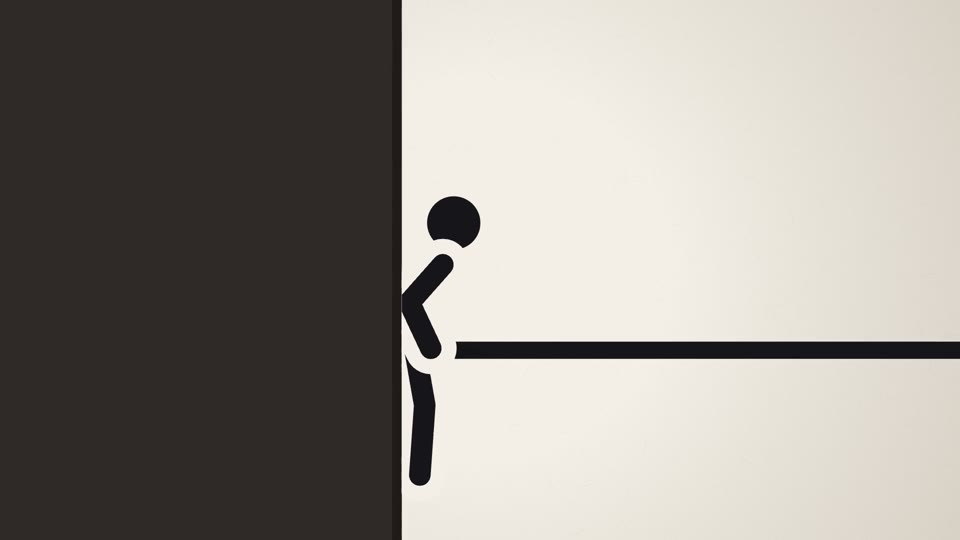
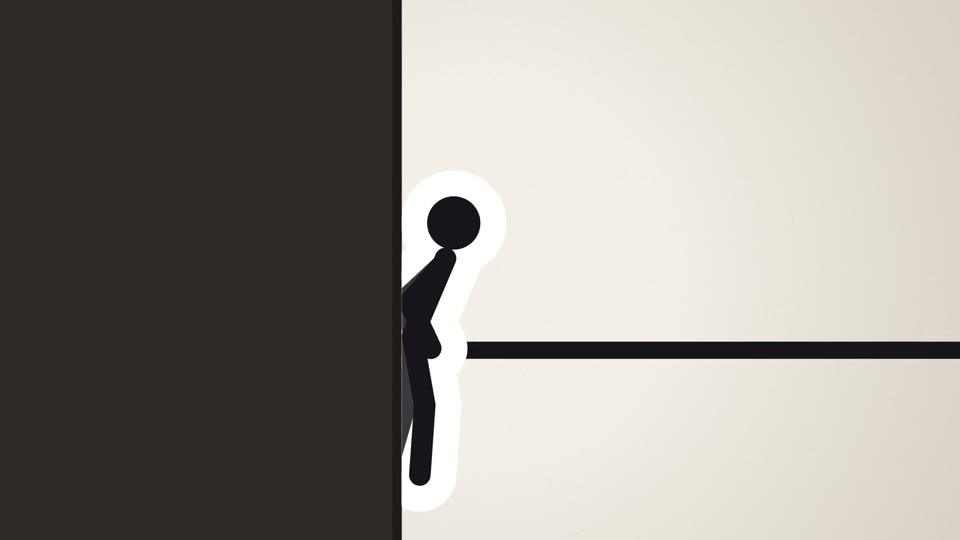
Stickman Action: a wider white outline around the figures
The outline is now pure white at 3.4x the stroke (was paper-coloured at 2.4x) and
goes under the whole figure before any ink, so it reads as a clean cut-out and never
bites into the figure's own strokes. Film, poster, stills and frames re-rendered.

Changed region(s): [[0.4062, 0.3259, 0.5312, 0.9481]]

diff --git a/styles/stick-action/demo/stick.js b/styles/stick-action/demo/stick.js
@@ -65,17 +65,23 @@ export function mixCol(a, b, t) {
   return '#' + [16, 8, 0].map(s => c(s).toString(16).padStart(2, '0')).join('');
 }
 
-// draw: paper halo pass, then ink; far limbs lightened. o: { ink, paper, farMix, halo (width multiplier), alpha, only: ['aN', ...] }
+// draw: a white outline pass under the whole figure, then ink; far limbs lightened.
+// o: { ink, outline (colour), farMix, halo (width multiplier), alpha, only: ['aN', ...] }
+export const OUTLINE = '#ffffff';
 export function drawFigure(g, J, o = {}) {
-  const ink = o.ink || INK, paper = o.paper || PAPER, w = J.P.w * (o.wk || 1);
-  const far = mixCol(ink, paper, o.farMix ?? .16);
+  const ink = o.ink || INK, out = o.outline || o.paper || OUTLINE, w = J.P.w * (o.wk || 1);
+  const far = mixCol(ink, PAPER, o.farMix ?? .16);
   const pl = (pts) => { g.beginPath(); g.moveTo(pts[0][0], pts[0][1]); for (let i = 1; i < pts.length; i++) g.lineTo(pts[i][0], pts[i][1]); g.stroke(); };
   g.save(); g.lineCap = 'round'; g.lineJoin = 'round'; if (o.alpha != null) g.globalAlpha = o.alpha;
   const parts = [['aF', far], ['lF', far], ['spine', ink], ['lN', ink], ['aN', ink]].filter(p => !o.only || o.only.includes(p[0]));
   const strokeOf = (name) => name === 'spine' ? [J.hip, J.neck] : J[name];
-  // the halo is drawn per part, just before it, so a near limb cuts a clean gap into whatever is behind it
+  // the outline goes under the whole figure first, so it never bites into the figure's own strokes;
+  // a figure drawn after another still cuts a clean white gap into it
+  if (o.halo !== 0) {
+    g.strokeStyle = out; g.fillStyle = out; g.lineWidth = w * (o.halo || 3.4);
+    for (const [name] of parts) { pl(strokeOf(name)); if (name === 'spine') { g.beginPath(); g.arc(J.head[0], J.head[1], J.P.head + w * 1.2, 0, 7); g.fill(); } }
+  }
   for (const [name, col] of parts) {
-    if (o.halo !== 0) { g.strokeStyle = paper; g.lineWidth = w * (o.halo || 2.4); pl(strokeOf(name)); if (name === 'spine') { g.fillStyle = paper; g.beginPath(); g.arc(J.head[0], J.head[1], J.P.head + w * .7, 0, 7); g.fill(); } }
     g.strokeStyle = col; g.lineWidth = w; pl(strokeOf(name));
     if (name === 'spine') { g.fillStyle = ink; g.beginPath(); g.arc(J.head[0], J.head[1], J.P.head, 0, 7); g.fill(); }
   }

diff --git a/styles/stick-action/STYLE.md b/styles/stick-action/STYLE.md
@@ -16,7 +16,7 @@ Not Pictogram Motion (geometric signage figures, beat-locked cards), not Whitebo
 ## 2. Materials & rendering
 
 - **Strokes.** Canvas 2D paths, `lineCap` and `lineJoin` round. Stroke width is a property of the figure in world units, about **1/13 of the figure's standing height**, and scales with the camera like everything else in the world. Head diameter ≈ 2.3 stroke widths × 2.2 (about 1/5.5 of the height), always filled.
-- **Paper halo.** Every figure is drawn twice: first all strokes 2.4× wider in the paper colour, then in ink. Where limbs cross they stay readable, and where two fighters overlap the nearer one cuts a clean gap into the farther one. The far arm and leg are drawn first and 12–18 % lighter (ink mixed toward paper), never coloured.
+- **White outline.** Every figure is drawn twice: first all its strokes about 3.4× wider in pure white (the head disc grown by ~1.2 stroke widths), then in ink. The whole outline goes down before any ink, so it never bites into the figure's own strokes; where two fighters overlap, the one drawn later cuts a clean white gap into the other. The far arm and leg are 12–18 % lighter (ink mixed toward paper), never coloured.
 - **Rig.** A skeleton with fixed bone lengths: hips → spine → neck → head; shoulders and hips each carry a two-bone limb solved by analytic IK (target point + bend direction). Poses are keyframes of joint angles or end-effector targets, interpolated per frame; nothing is drawn by hand-moving points. Bone lengths never change except in a deliberate smear (§8).
 - **Ground and contact.** One horizontal ink line, slightly thinner than the figure stroke, extending past the frame. Feet planted on it are locked to it (IK target pinned) until they lift. A flat grey ellipse under each figure shrinks and lightens with height above the ground: the only shading in the style.
 - **Paper.** A warm off-white with a very faint, static grain fixed to the screen (not the world), plus a soft vignette. No paper texture moves, no line boils.
@@ -33,7 +33,7 @@ Not Pictogram Motion (geometric signage figures, beat-locked cards), not Whitebo
 ## 4. Type & subtitles
 
 - Titles and callouts: a heavy condensed sans (e.g. Anton, OFL) in ink, set large, with a thick accent bar under or behind them; they slam in on a hit (scale 1.3 → 1 in 3 frames, one-frame hold of an offset ink shadow). CJK: a heavy sans (e.g. Noto Sans SC Black, subset).
-- On-screen sound words or move names, if used, are part of the drawing: ink letters with a paper halo, tilted, held ≥ 1 s.
+- On-screen sound words or move names, if used, are part of the drawing: ink letters with a white outline, tilted, held ≥ 1 s.
 - Subtitles: a semi-condensed sans (e.g. Barlow Semi Condensed 600, 46–54 px) in ink with a 7–9 px paper-colour outline, centred ~90 px above the bottom; they never sit over a figure's contact point. Hold ≥ max(1.8 s, speech + 0.6 s).
 
 ## 5. Motion quality
@@ -89,7 +89,7 @@ A menu: use the ones your story needs.
 - Limbs that stretch or shrink between keys look broken → solve with fixed-length IK; only smears may stretch.
 - Knees and elbows flipping direction mid-move → give every limb an explicit bend side and keep it unless the pose changes deliberately.
 - Feet sliding on the ground → pin planted feet with IK targets until they lift.
-- Two black figures merging into one blob → side-on staging, space between them, the paper halo stroke, the far limbs lightened.
+- Two black figures merging into one blob → side-on staging, space between them, the white outline, the far limbs lightened.
 - Fast motion strobing at 24 fps → smears for limbs that move more than ~1/3 of the figure height per frame.
 - Action too fast to read → holds before strikes, hit-stop on hits, never more than one new action every ~0.4 s for a reader to follow.
 - Line weight changing when the camera zooms → stroke width in world units, transformed with the camera.
@@ -98,7 +98,7 @@ A menu: use the ones your story needs.
 
 ## 10. Engine
 
-In `demo/`: `stick.js` (rig: `figure(pose)` builds joint positions from angles and IK targets with fixed bone lengths, `drawFigure(g, J, o)` draws halo + ink with far-limb lightening, `lerpPose`, `ik2`), `moves.js` (pose library and keyframe tracks: stance, guard, punch, kick, dash, jump, block, hit, fall, rise), `fx.js` (smears, speed lines, sparks, dust, shockwave, ground cracks, energy aura and beams), `cam.js` (world → screen camera with zoom, pan, shake, tilt, time remap), `main.js` (shots, paper, title cards, sound events), `music.py` (synthesised score), `mix.py`. A minimal new use: one figure skipping rope, with the rope as a flat ink arc and its slap on the ground as a dust puff, drawn with `figure`, `drawFigure` and `dust`.
+In `demo/`: `stick.js` (rig: `figure(pose)` builds joint positions from angles and IK targets with fixed bone lengths, `drawFigure(g, J, o)` draws the white outline + ink with far-limb lightening, `lerpPose`, `ik2`), `moves.js` (pose library and keyframe tracks: stance, guard, punch, kick, dash, jump, block, hit, fall, rise), `fx.js` (smears, speed lines, sparks, dust, shockwave, ground cracks, energy aura and beams), `cam.js` (world → screen camera with zoom, pan, shake, tilt, time remap), `main.js` (shots, paper, title cards, sound events), `music.py` (synthesised score), `mix.py`. A minimal new use: one figure skipping rope, with the rope as a flat ink arc and its slap on the ground as a dust puff, drawn with `figure`, `drawFigure` and `dust`.
 
 ## 11. Variation space
 

diff --git a/styles/stick-action/DEMO.md b/styles/stick-action/DEMO.md
@@ -41,7 +41,7 @@ Foley (`demo/mix.py`, from the page's `window.EV`): pen scratches, swishes pitch
 
 ## Palette & props
 
-- Paper `#f3efe6`, ink `#16151a`, desk `#2f2a27`; RED's accent `#e8343a`, BLUE's `#1fb5e8`.
+- Paper `#f3efe6`, ink `#16151a`, outline `#ffffff` (3.4× the stroke), desk `#2f2a27`; RED's accent `#e8343a`, BLUE's `#1fb5e8`.
 - RED: 290 units tall, a longer spine, low wide stance, fists high. BLUE: 320 units tall, longer legs and arms, upright guard with one hand forward. Same stroke weight (height / 13) and ink; they differ only by build, stance and timing.
 - The sheet is a 3000 × 2300 rectangle on a dark desk; every figure and effect is clipped to it, which is what makes "off the page" literal.
 - Kept marks: the crack at the centre (from 33 s), grey scuffs where feet landed or skidded.
@@ -54,7 +54,7 @@ The pulled-back sheet with "LAST STROKE / 最后一笔" in Anton and Noto Sans S
 
 ```
 styles/stick-action/demo/
-  stick.js   rig: proportions, figure (FK + two-bone IK), lerpPose, drawFigure (halo + ink), drawFigureDrawing, shadow
+  stick.js   rig: proportions, figure (FK + two-bone IK), lerpPose, drawFigure (white outline + ink), drawFigureDrawing, shadow
   moves.js   pose library (stance, punch, block, kicks, dash, jump, tumble, hang, kneel, lying, offer…) + track() keyframes
   fx.js      paper, ground line + cracks, smear, sparks, speed lines, dust, shockwave, aura
   cam.js     world → screen camera (zoom, dutch, shake)
